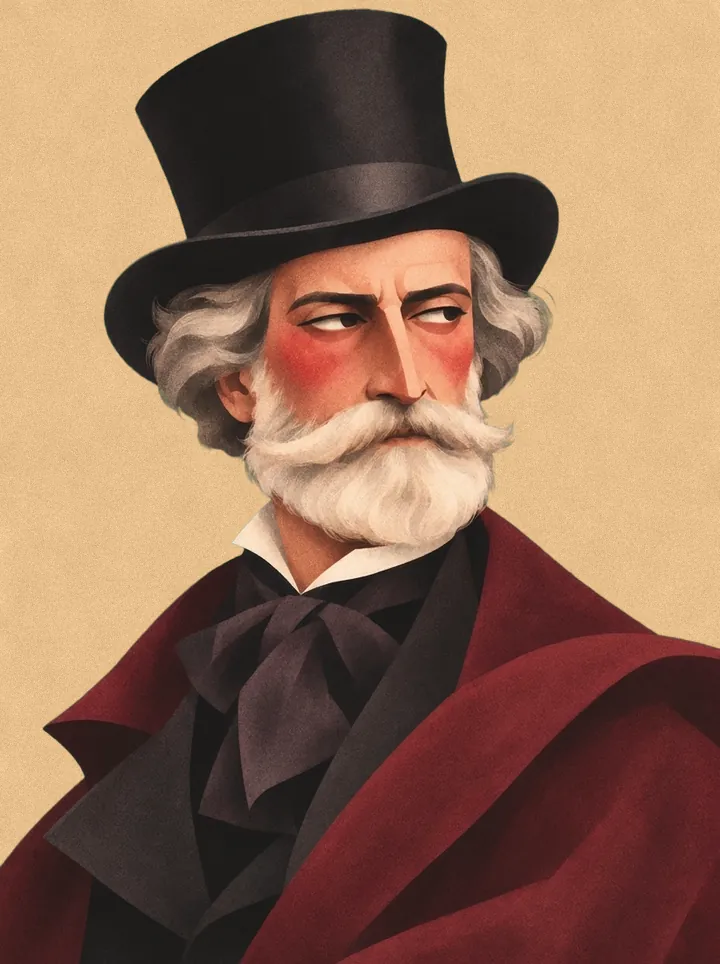
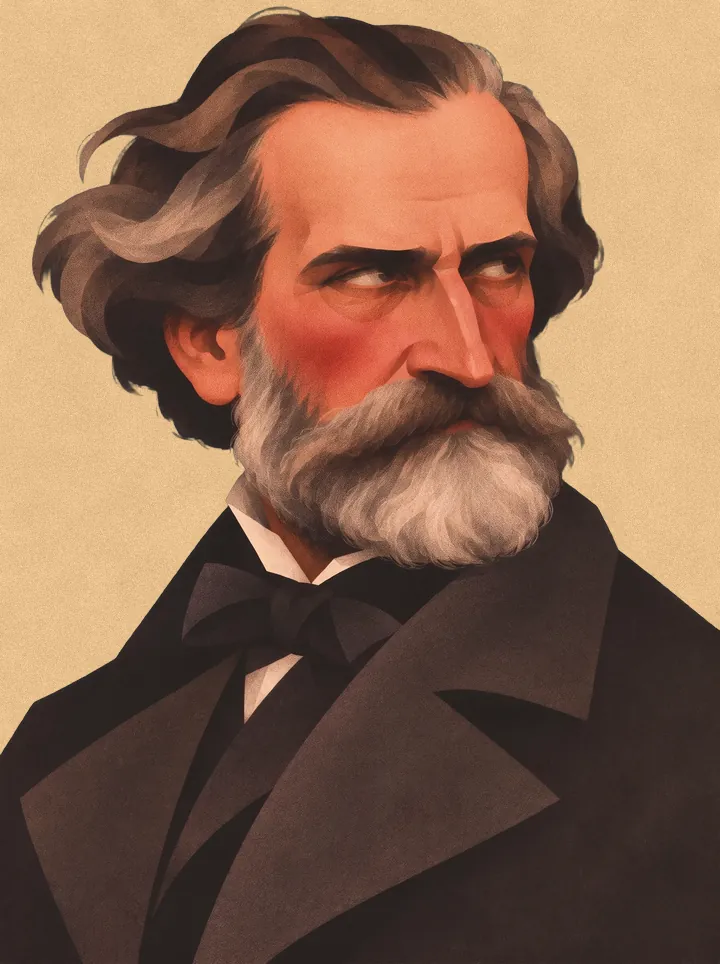
Composer portraits: 52 new (Schumann, Wolf, Mahler, Debussy, Donizetti, Mendelssohn, the arie antiche composers and more) and new Mozart, Handel, Haydn, Verdi, built from the user's Figma files; opera words bundled five to a file by opera to stay under the published file limit
Claude-Session: https://claude.ai/code/session_01J9nR1BmP9TjDnKqecdbpyd

diff --git a/src/standalone/composers.ts b/src/standalone/composers.ts
@@ -18,21 +18,73 @@ export interface Composer {
 
 /** what each portrait shows */
 const ALT: Record<string, [string, string]> = {
+  arne: ["Arne", "Portrait of Thomas Arne."],
   bach: ["Bach", "Johann Sebastian Bach in a full white curled wig and a dark coat with a white cravat, on red."],
   beethoven: ["Beethoven", "Ludwig van Beethoven with wild dark hair, a white collar and a red scarf under a dark coat, on red."],
+  bellini: ["Bellini", "Portrait of Vincenzo Bellini."],
+  berlioz: ["Berlioz", "Portrait of Hector Berlioz."],
   bizet: ["Bizet", "Georges Bizet with dark curly hair, a full beard and round spectacles, in a dark coat, on olive green."],
+  bononcini: ["Bononcini", "Portrait of Giovanni Bononcini."],
   brahms: ["Brahms", "Johannes Brahms with swept-back hair and a long grey-brown beard, in a dark coat and bow, on deep red."],
+  butterworth: ["Butterworth", "Portrait of George Butterworth."],
+  caccini: ["Caccini", "Portrait of Giulio Caccini."],
+  caldara: ["Caldara", "Portrait of Antonio Caldara."],
+  carissimi: ["Carissimi", "Portrait of Giacomo Carissimi."],
+  cesti: ["Cesti", "Portrait of Antonio Cesti."],
+  chausson: ["Chausson", "Portrait of Ernest Chausson."],
+  claraschumann: ["Clara Schumann", "Portrait of Clara Schumann."],
+  debussy: ["Debussy", "Portrait of Claude Debussy."],
+  decurtis: ["De Curtis", "Portrait of Ernesto De Curtis."],
+  dicapua: ["di Capua", "Portrait of Eduardo di Capua."],
+  donaudy: ["Donaudy", "Portrait of Stefano Donaudy."],
+  donizetti: ["Donizetti", "Portrait of Gaetano Donizetti."],
+  duparc: ["Duparc", "Portrait of Henri Duparc."],
+  durante: ["Durante", "Portrait of Francesco Durante."],
+  dvorak: ["Dvořák", "Portrait of Antonín Dvořák."],
+  falla: ["Falla", "Portrait of Manuel de Falla."],
   faure: ["Fauré", "Gabriel Fauré with wavy grey hair and a grey moustache, in a dark coat and black tie, on purple."],
-  handel: ["Handel", "George Frideric Handel in a full white curled wig, a lace cravat and a red coat embroidered in gold, on red."],
-  haydn: ["Haydn", "Joseph Haydn in a white wig tied with a black ribbon, a lace cravat and a green coat edged in gold, on green."],
-  mozart: ["Mozart", "Wolfgang Amadeus Mozart in a white wig tied with a black ribbon, a lace cravat and a red coat edged in gold, on red."],
+  gasparini: ["Gasparini", "Portrait of Francesco Gasparini."],
+  giordani: ["Giordani", "Portrait of Tommaso Giordani."],
+  gluck: ["Gluck", "Portrait of Christoph Willibald Gluck."],
+  gounod: ["Gounod", "Portrait of Charles Gounod."],
+  granados: ["Granados", "Portrait of Enrique Granados."],
+  grieg: ["Grieg", "Portrait of Edvard Grieg."],
+  hahn: ["Hahn", "Portrait of Reynaldo Hahn."],
+  handel: ["Handel", "Portrait of George Frideric Handel."],
+  haydn: ["Haydn", "Portrait of Joseph Haydn."],
+  ives: ["Ives", "Portrait of Charles Ives."],
+  legrenzi: ["Legrenzi", "Portrait of Giovanni Legrenzi."],
+  lotti: ["Lotti", "Portrait of Antonio Lotti."],
+  mahler: ["Mahler", "Portrait of Gustav Mahler."],
+  marcello: ["Marcello", "Portrait of Benedetto Marcello."],
+  massenet: ["Massenet", "Portrait of Jules Massenet."],
+  mendelssohn: ["Mendelssohn", "Portrait of Felix Mendelssohn."],
+  monteverdi: ["Monteverdi", "Portrait of Claudio Monteverdi."],
+  mozart: ["Mozart", "Portrait of Wolfgang Amadeus Mozart."],
+  obradors: ["Obradors", "Portrait of Fernando Obradors."],
+  paisiello: ["Paisiello", "Portrait of Giovanni Paisiello."],
+  parisotti: ["Parisotti", "Portrait of Alessandro Parisotti."],
+  pergolesi: ["Pergolesi", "Portrait of Giovanni Battista Pergolesi."],
   puccini: ["Puccini", "Giacomo Puccini with dark wavy hair and a moustache, in a brown overcoat and dark tie, on deep red."],
+  purcell: ["Purcell", "Portrait of Henry Purcell."],
+  quilter: ["Quilter", "Portrait of Roger Quilter."],
+  rachmaninoff: ["Rachmaninoff", "Portrait of Sergei Rachmaninoff."],
+  ravel: ["Ravel", "Portrait of Maurice Ravel."],
+  respighi: ["Respighi", "Portrait of Ottorino Respighi."],
+  rosa: ["Rosa", "Portrait of Salvator Rosa."],
   rossini: ["Rossini", "Gioachino Rossini with dark curls and sideburns, a white cravat and a deep red coat, on olive green."],
   rstrauss: ["Strauss", "Richard Strauss with receding wavy hair and a moustache, in a dark coat and high white collar, on dark teal."],
+  scarlatti: ["Scarlatti", "Portrait of Alessandro Scarlatti."],
+  schumann: ["Schumann", "Portrait of Robert Schumann."],
+  somervell: ["Somervell", "Portrait of Arthur Somervell."],
+  stradella: ["Stradella", "Portrait of Alessandro Stradella."],
   tchaikovsky: ["Tchaikovsky", "Pyotr Ilyich Tchaikovsky with short grey hair and a white beard, in a dark coat and tie, on purple."],
-  verdi: ["Verdi", "Giuseppe Verdi in a black top hat, with white hair and a white beard, a dark bow and a deep red cloak, on green."],
+  torelli: ["Torelli", "Portrait of Giuseppe Torelli."],
+  tosti: ["Tosti", "Portrait of Francesco Paolo Tosti."],
+  verdi: ["Verdi", "Portrait of Giuseppe Verdi."],
   vivaldi: ["Vivaldi", "Antonio Vivaldi with long wavy red hair, a white lace cravat and a deep red cloak, on red."],
   wagner: ["Wagner", "Richard Wagner in a dark beret, with grey-brown hair and side whiskers, a dark bow and a deep red coat, on olive green."],
+  wolf: ["Wolf", "Portrait of Hugo Wolf."],
 };
 
 export const COMPOSERS: Composer[] = Object.entries(ALT).map(([id, [name, alt]]) => ({ id, name, alt, portrait: pic(`composer-${id}-portrait`), face: pic(`composer-${id}-face`) }));

diff --git a/vite.standalone.config.ts b/vite.standalone.config.ts
@@ -68,6 +68,20 @@ const SONG_BUNDLE = (() => {
   return out;
 })();
 
+/** Opera numbers travel five to a file, by opera and in the opera's order (words-giovanni-3): one file per number
+ *  passed the published app's file limit once the composer portraits were added. */
+const OPERA_BUNDLE = (() => {
+  const src = readFileSync(resolve(import.meta.dirname, "src/standalone/operas.ts"), "utf8");
+  const starts = [...src.matchAll(/\n  "id": "([a-z0-9-]+)",\n  "title": "/g)];
+  const out = new Map<string, string>();
+  starts.forEach((m, i) => {
+    const seg = src.slice(m.index, i + 1 < starts.length ? starts[i + 1].index : src.length);
+    const ids = [...new Set([...seg.matchAll(/"editionId": "([^"]+)"/g)].map((x) => x[1]))];
+    ids.forEach((id, k) => out.has(id) || out.set(id, `words-${m[1]}-${Math.floor(k / 5) + 1}`));
+  });
+  return out;
+})();
+
 export default defineConfig({
   plugins: [gzipData(), patchSpessaProcessor(), react()],
   base: "./",
@@ -93,7 +107,7 @@ export default defineConfig({
             /\/content\/pieces\/([^/]+)\/voice\/[^/]+\/manifest\.json$/.exec(id) ??
             /\/data\/content\/([^/]+)\/(?:language|edition)\.json(?:\?z)?$/.exec(id) ??
             /\/data\/content\/([^/]+)\/score\.musicxml\?(?:raw|z)$/.exec(id);
-          if (words) return SONG_BUNDLE.get(words[1]) ?? `words-${words[1]}`;
+          if (words) return SONG_BUNDLE.get(words[1]) ?? OPERA_BUNDLE.get(words[1]) ?? `words-${words[1]}`;
           // the voice packs' index and the module that reads it, loaded together with the first recording asked for
           if (/voicepacks\/|\/voiceIndex\.ts$/.test(id)) return "voicedata";
           return undefined;

diff --git a/scripts/art/composers2.py b/scripts/art/composers2.py
@@ -1,0 +1,87 @@
+"""The composer portraits from the user's later Figma files (composers_1_1, composers_2, composers_3): each frame named
+after its composer, a 1792 x 2400 portrait and a 1000 x 1000 face, holding the cut-out exactly as placed. Each is drawn
+over its own pale backdrop with the same tone and paper grain as composers.py, at the app's two sizes.
+
+    python3 scripts/art/composers2.py <dir with the unzipped .fig folders, each with nodes.json> <out dir>
+
+nodes.json comes from scripts/art/figma-nodes.cjs. Prints the composers it wrote as "id|short name|full name"."""
+import json, os, sys
+from PIL import Image
+FIGS, OUT = sys.argv[1], sys.argv[2]
+src = open(os.path.join(os.path.dirname(os.path.abspath(__file__)), 'composers.py')).read().split("os.makedirs(OUT")[0]
+src = src.replace("full = {h[:12]: h for h in os.listdir(os.path.join(FIG, 'images'))}", "")
+g = {}; exec(src, g)
+comp = g['comp']
+# full name in the Figma frame -> (id, the short name the catalogues use)
+NAMES = {
+ 'Mahler': ('mahler', 'Mahler'), 'Claude Debussy': ('debussy', 'Debussy'), 'Robert Schumann': ('schumann', 'Schumann'),
+ 'Hugo Wolf': ('wolf', 'Wolf'), 'Arthur Somervell': ('somervell', 'Somervell'), 'Roger Quilter': ('quilter', 'Quilter'),
+ 'Charles Gounod': ('gounod', 'Gounod'), 'Ernest Chausson': ('chausson', 'Chausson'), 'Gaetano Donizetti': ('donizetti', 'Donizetti'),
+ 'Felix Mendelssohn': ('mendelssohn', 'Mendelssohn'), 'Mozart': ('mozart', 'Mozart'), 'George Frideric Handel': ('handel', 'Handel'),
+ 'Joseph Haydn': ('haydn', 'Haydn'), 'Verdi': ('verdi', 'Verdi'), 'Reynaldo Hahn': ('hahn', 'Hahn'),
+ 'Francesco Paolo Tosti': ('tosti', 'Tosti'), 'Jules Massenet': ('massenet', 'Massenet'), 'Hector Berlioz': ('berlioz', 'Berlioz'),
+ 'George Butterworth': ('butterworth', 'Butterworth'), 'Fernando Obradors': ('obradors', 'Obradors'),
+ 'Clara Schumann': ('claraschumann', 'Clara Schumann'), 'Monteverdi': ('monteverdi', 'Monteverdi'), 'Giulio Caccini': ('caccini', 'Caccini'),
+ 'Giacomo Carissimi': ('carissimi', 'Carissimi'), 'Antonio Cesti': ('cesti', 'Cesti'), 'Alessandro Stradella': ('stradella', 'Stradella'),
+ 'Salvator Rosa': ('rosa', 'Rosa'), 'Giovanni Legrenzi': ('legrenzi', 'Legrenzi'), 'Alessandro Scarlatti': ('scarlatti', 'Scarlatti'),
+ 'Giovanni Bononcini': ('bononcini', 'Bononcini'), 'Antonio Caldara': ('caldara', 'Caldara'), 'Francesco Gasparini': ('gasparini', 'Gasparini'),
+ 'ntonio Lotti': ('lotti', 'Lotti'), 'Benedetto Marcello': ('marcello', 'Marcello'), 'Giuseppe Torelli': ('torelli', 'Torelli'),
+ 'Francesco Durante': ('durante', 'Durante'), 'Giovanni Battista Pergolesi': ('pergolesi', 'Pergolesi'), 'Giovanni Paisiello': ('paisiello', 'Paisiello'),
+ 'Tommaso Giordani': ('giordani', 'Giordani'), 'Vincenzo Bellini': ('bellini', 'Bellini'), 'alessandro Parisotti': ('parisotti', 'Parisotti'),
+ 'Stefano Donaudy': ('donaudy', 'Donaudy'), 'Ottorino Respighi': ('respighi', 'Respighi'), 'Eduardo di Capua': ('dicapua', 'di Capua'),
+ 'Ernesto De Curtis': ('decurtis', 'De Curtis'), 'Henry Purcell': ('purcell', 'Purcell'), 'Thomas Arne': ('arne', 'Arne'),
+ 'Christoph Willibald Gluck': ('gluck', 'Gluck'), 'Henri Duparc': ('duparc', 'Duparc'), 'Maurice Ravel': ('ravel', 'Ravel'),
+ 'Manuel de Falla': ('falla', 'Falla'), 'Enrique Granados': ('granados', 'Granados'), 'Antonín Dvořák': ('dvorak', 'Dvořák'),
+ 'Edvard Grieg': ('grieg', 'Grieg'), 'Sergei Rachmaninoff': ('rachmaninoff', 'Rachmaninoff'), 'Charles Ives': ('ives', 'Ives'),
+}
+FULL = {'Mahler': 'Gustav Mahler', 'Mozart': 'Wolfgang Amadeus Mozart', 'Verdi': 'Giuseppe Verdi', 'Monteverdi': 'Claudio Monteverdi',
+        'ntonio Lotti': 'Antonio Lotti', 'alessandro Parisotti': 'Alessandro Parisotti'}
+# pale backdrops, each composer his own, in turn (the ones the first portraits had are kept)
+PALE = ['#a9c4e0', '#e8b4b8', '#b9d3a8', '#e6c27a', '#c4b0dc', '#9fcfc0', '#e0a98c', '#b4bfe0', '#d6c08a', '#a6d0cf',
+        '#d8b4d4', '#c2d2a4', '#e9c99a', '#8fc1bd', '#e3b38f', '#b3c7e8', '#c9b48a', '#d9a3a0', '#a7c9dd', '#c7c49a']
+COLS = dict(g['COLS'])
+def render(fig, frame, nodes, W, H):
+    """the frame as Figma draws it: its visible layers' cut-outs, cover-fit in their rectangles, clipped to the frame"""
+    images = {i[:12]: i for i in os.listdir(f'{fig}/images')}
+    fw, fh = frame['size']['x'], frame['size']['y']
+    s = W / fw
+    out = Image.new('RGBA', (W, H), (0, 0, 0, 0))
+    for r in [k for k in nodes if k['parent'] == frame['id'] and k.get('visible') is not False]:
+        cut = next((p for p in r['paints'] if p['type'] == 'IMAGE' and p.get('visible') is not False and p.get('hash')), None)
+        if not cut: continue
+        im = Image.open(f"{fig}/images/{images[cut['hash'][:12]]}").convert('RGBA')
+        t = r['transform']; w, h = r['size']['x'], r['size']['y']
+        fx, fy = t['m00'] < 0, t['m11'] < 0
+        x = t['m02'] - w if fx else t['m02']; y = t['m12'] - h if fy else t['m12']
+        sc = max(w / im.width, h / im.height)
+        tw, th = im.width * sc * s, im.height * sc * s
+        px, py = x * s + (w * s - tw) / 2, y * s + (h * s - th) / 2
+        part = im.resize((max(1, round(tw)), max(1, round(th))), Image.LANCZOS)
+        if fx: part = part.transpose(Image.FLIP_LEFT_RIGHT)
+        if fy: part = part.transpose(Image.FLIP_TOP_BOTTOM)
+        layer = Image.new('RGBA', (W, H), (0, 0, 0, 0)); layer.paste(part, (round(px), round(py)), part)
+        out = Image.alpha_composite(out, layer)
+    return out
+os.makedirs(OUT, exist_ok=True)
+done = {}
+k = 0
+for f in ['composers_1_1', 'composers_2', 'composers_3']:
+    fig = f'{FIGS}/{f}'
+    nodes = json.load(open(f'{fig}/nodes.json'))
+    for fr in [x for x in nodes if x['type'] == 'FRAME' and x.get('size')]:
+        name = fr['name'].replace('', '').strip()
+        if name not in NAMES: continue
+        cid, short = NAMES[name]
+        if cid not in COLS:
+            COLS[cid] = PALE[k % len(PALE)]; k += 1
+        seed = sum(map(ord, cid))
+        if round(fr['size']['x']) == 1792:
+            comp(render(fig, fr, nodes, 720, 964), COLS[cid], (720, 964), seed).save(f'{OUT}/composer-{cid}-portrait.webp', quality=80, method=6)
+            done.setdefault(cid, set()).add('portrait')
+        elif round(fr['size']['x']) == 1000:
+            comp(render(fig, fr, nodes, 320, 320), COLS[cid], (320, 320), seed + 1).save(f'{OUT}/composer-{cid}-face.webp', quality=82, method=6)
+            done.setdefault(cid, set()).add('face')
+        done.setdefault(cid, set()).add(f'{short}|{FULL.get(name, name)}')
+for cid, v in done.items():
+    names = [x for x in v if '|' in x][0]
+    print(f"{cid}|{names}|{'portrait' in v}|{'face' in v}")
